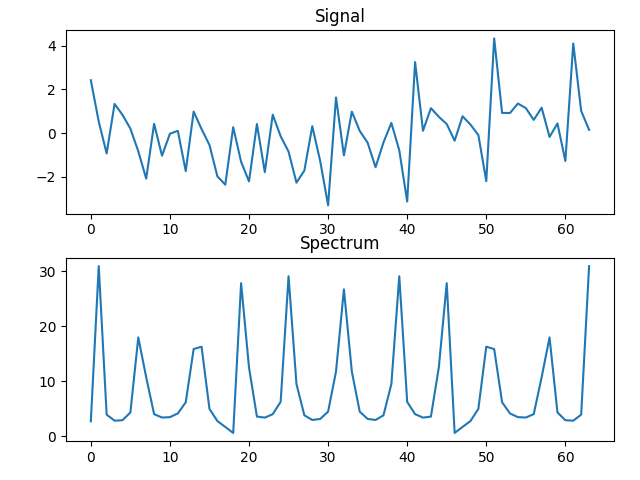
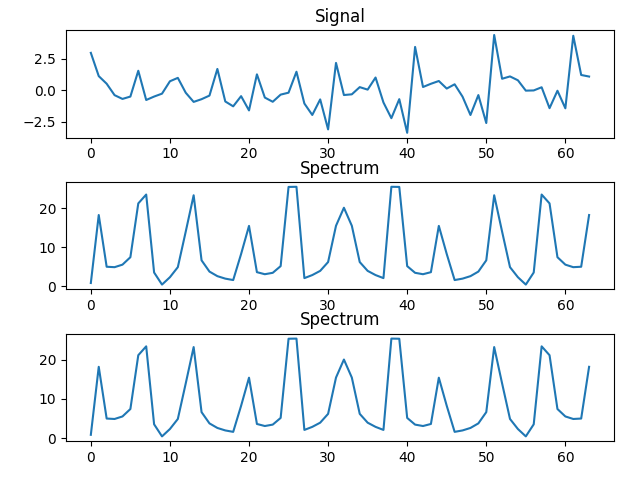
feat(2.2): init

diff --git a/signal.py b/signal.py
@@ -62,4 +62,32 @@ def dft(sig):
             res[p] += w * sig[k]
         res[p] = abs(res[p])
     return res
-    
+
+def fft(sig):
+    n = len(sig)
+    if n == 1:
+        return sig
+
+    half_size = int(n / 2)
+    p_even = [0] * half_size
+    p_odd = [0] * half_size
+    for i in range(half_size):
+        p_even[i] = sig[i*2]
+        p_odd[i] = sig[i*2 + 1]
+
+    y_even = fft(p_even)
+    y_odd = fft(p_odd)
+
+    res = [0] * n
+    for i in range(half_size):
+        expression = 2.0 * math.pi * i / n
+        w = complex(math.cos(expression), math.sin(expression))
+        res[i] = y_even[i] + y_odd[i] * w
+        res[i + half_size] = y_even[i] - y_odd[i] * w
+
+    return res
+
+def real(sig):
+    for i in range(len(sig)):
+        sig[i] = abs(sig[i])
+    return sig

diff --git a/main.py b/main.py
@@ -8,7 +8,7 @@ N = 64
 
 sig = signal.generate(HARMONICS, CUTOFF_FREQUENCY, N)
 
-fig, ax = plt.subplots(2, 1)
+fig, ax = plt.subplots(3, 1)
 fig.tight_layout(rect=(0.03, 0, 1, 0.98))
 
 ax[0].plot(sig)
@@ -17,6 +17,10 @@ ax[0].set_title('Signal')
 dft = signal.dft(sig)
 ax[1].plot(dft)
 ax[1].set_title('Spectrum')
+
+fft = signal.fft(sig)
+ax[2].plot(signal.real(fft))
+ax[2].set_title('Spectrum')
 
 fig.savefig('signal_and_spectrum.png')
 plt.show()
